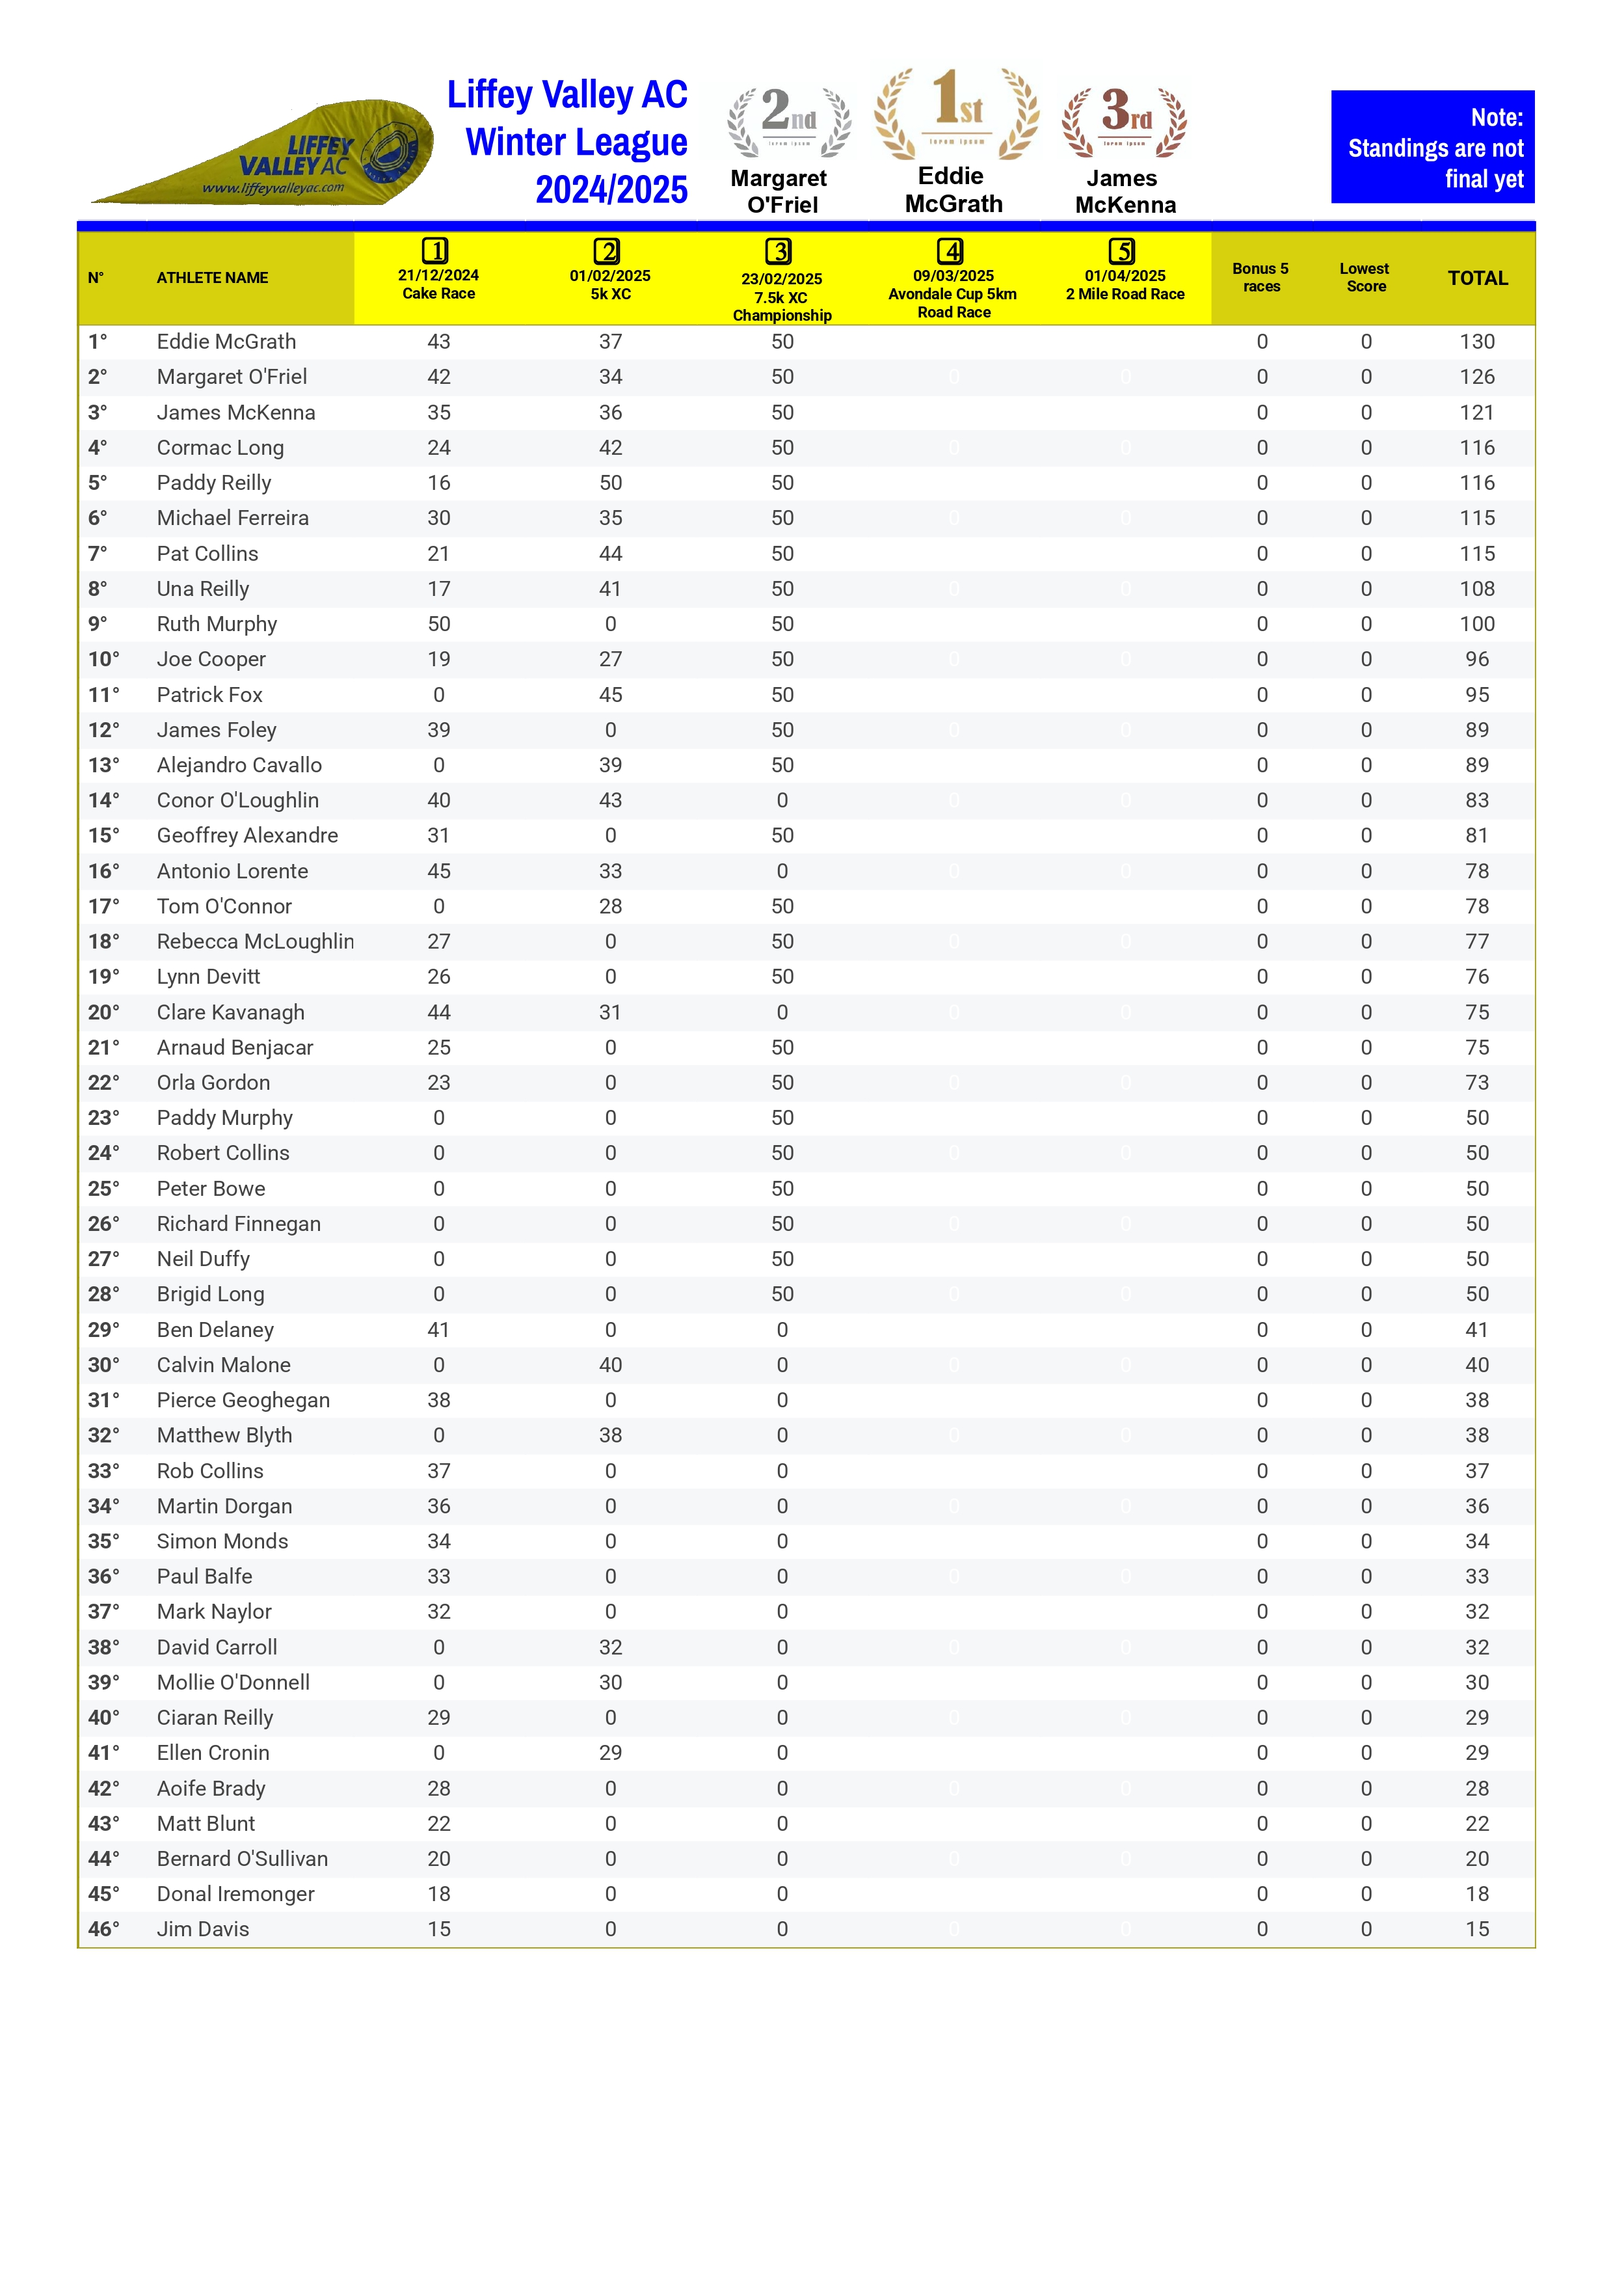
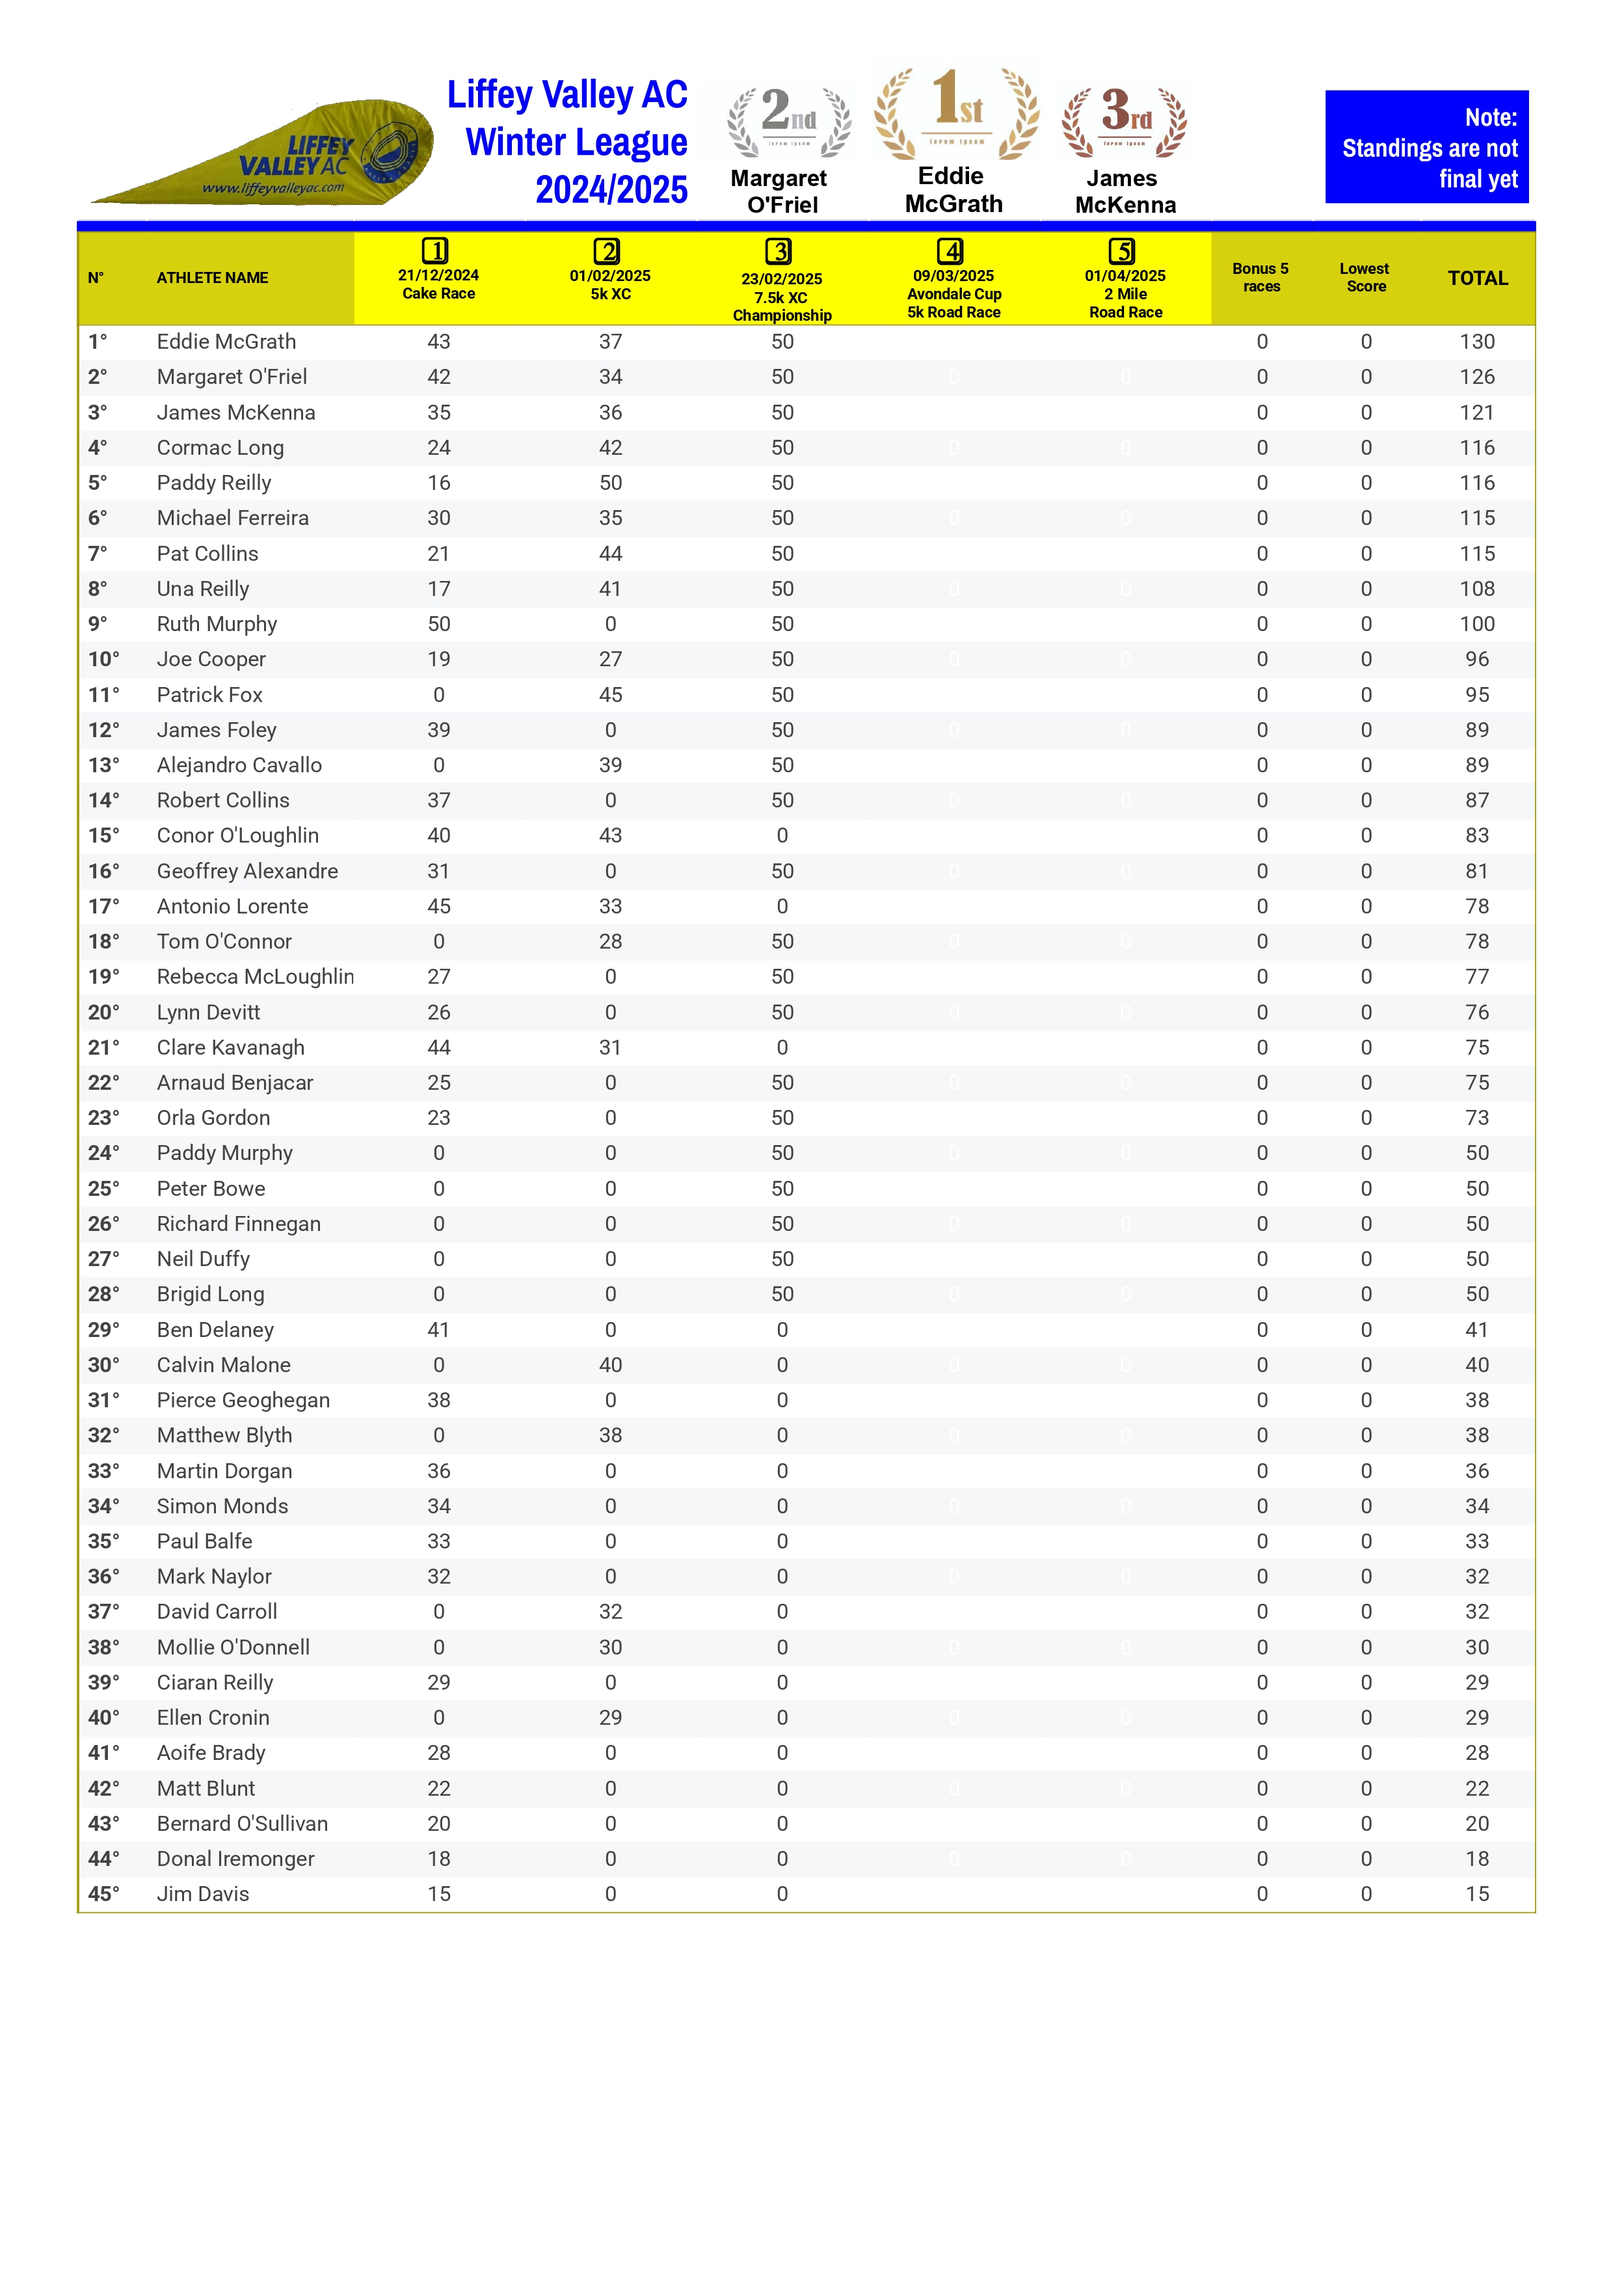
Correction to Robert Collins at the Winter League

diff --git a/_posts/2025-02-23-winter-league-standings.md b/_posts/2025-02-23-winter-league-standings.md
@@ -14,8 +14,8 @@ Antonio Lorente (78 points)<br><br>
 🥇Eddie McGrath (130 points) ⬆ (+50 pts)<br>
 🥈Margaret O'Friel (126 points) ⬆ (+50 pts)<br>
 🥉James McKenna (121 points) ⬆ (+50 pts)<br>
-🔹 Conor O'Loughlin dropped from 1st to 14th place after failing to score in Race 3.<br>
-🔹 Antonio Lorente, who was 3rd, fell to 16th place.<br>
+🔹 Conor O'Loughlin dropped from 1st to 15th place after failing to score in Race 3.<br>
+🔹 Antonio Lorente, who was 3rd, fell to 17th place.<br>
 🔹 Margaret O'Friel climbed from 4th to 2nd with her Race 3 points.<br>
 🔹 James McKenna moved up from 6th to 3rd thanks to his score in Race 3.<br>
 
@@ -29,10 +29,9 @@ The following runners scored 50 points in the last race and climbed up the ranki
 <b>Una Reilly</b> (advanced from 11th to 8th place)<br>
 <b>Patrick Fox</b> (climbed from 14th to 11th place)<br><br>
 
-Additionally, new runners entered the ranking with 50 points in Race 3:<br>
+Additionally, 5 new runners entered the ranking with 50 points in Race 3:<br>
 
 <b>Paddy Murphy<br>
-Robert Collins<br>
 Peter Bowe<br>
 Richard Finnegan<br>
 Neil Duffy<br>

diff --git a/_races/2024-12-21-lvac-cake-race.md b/_races/2024-12-21-lvac-cake-race.md
@@ -60,7 +60,7 @@ results:
     actual_time: 16m 28s
     note:
   - place: 10
-    name: Rob Collins
+    name: Robert Collins
     finish_time: 29m 43s
     handicap: 8m 30s
     actual_time: 21m 13s
